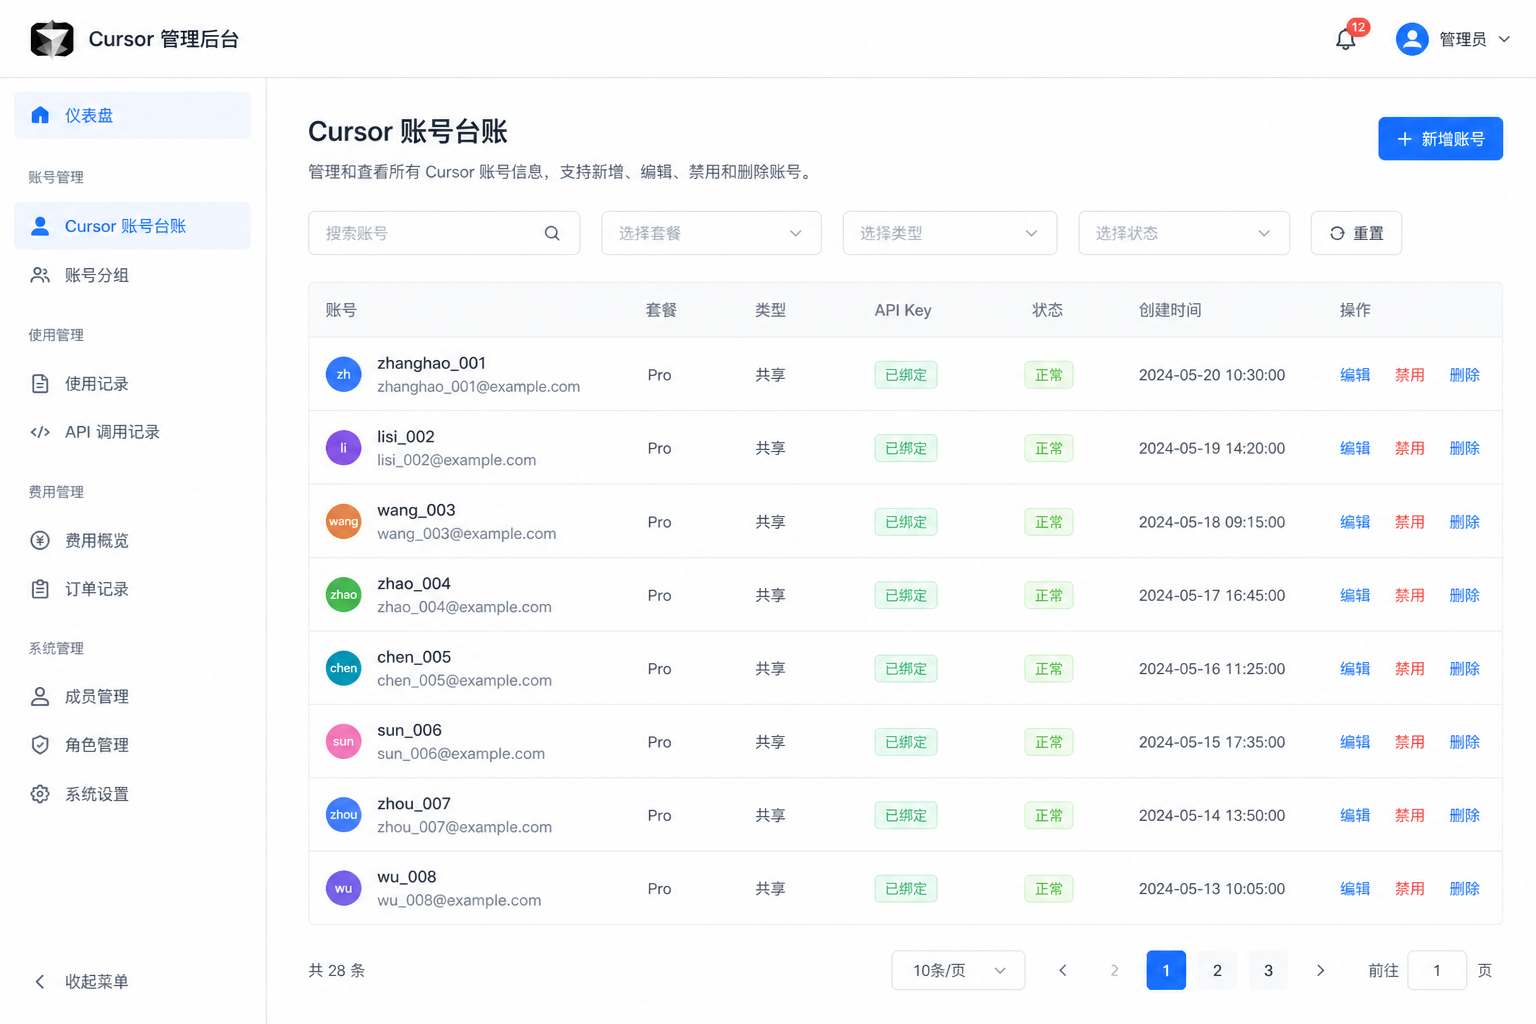
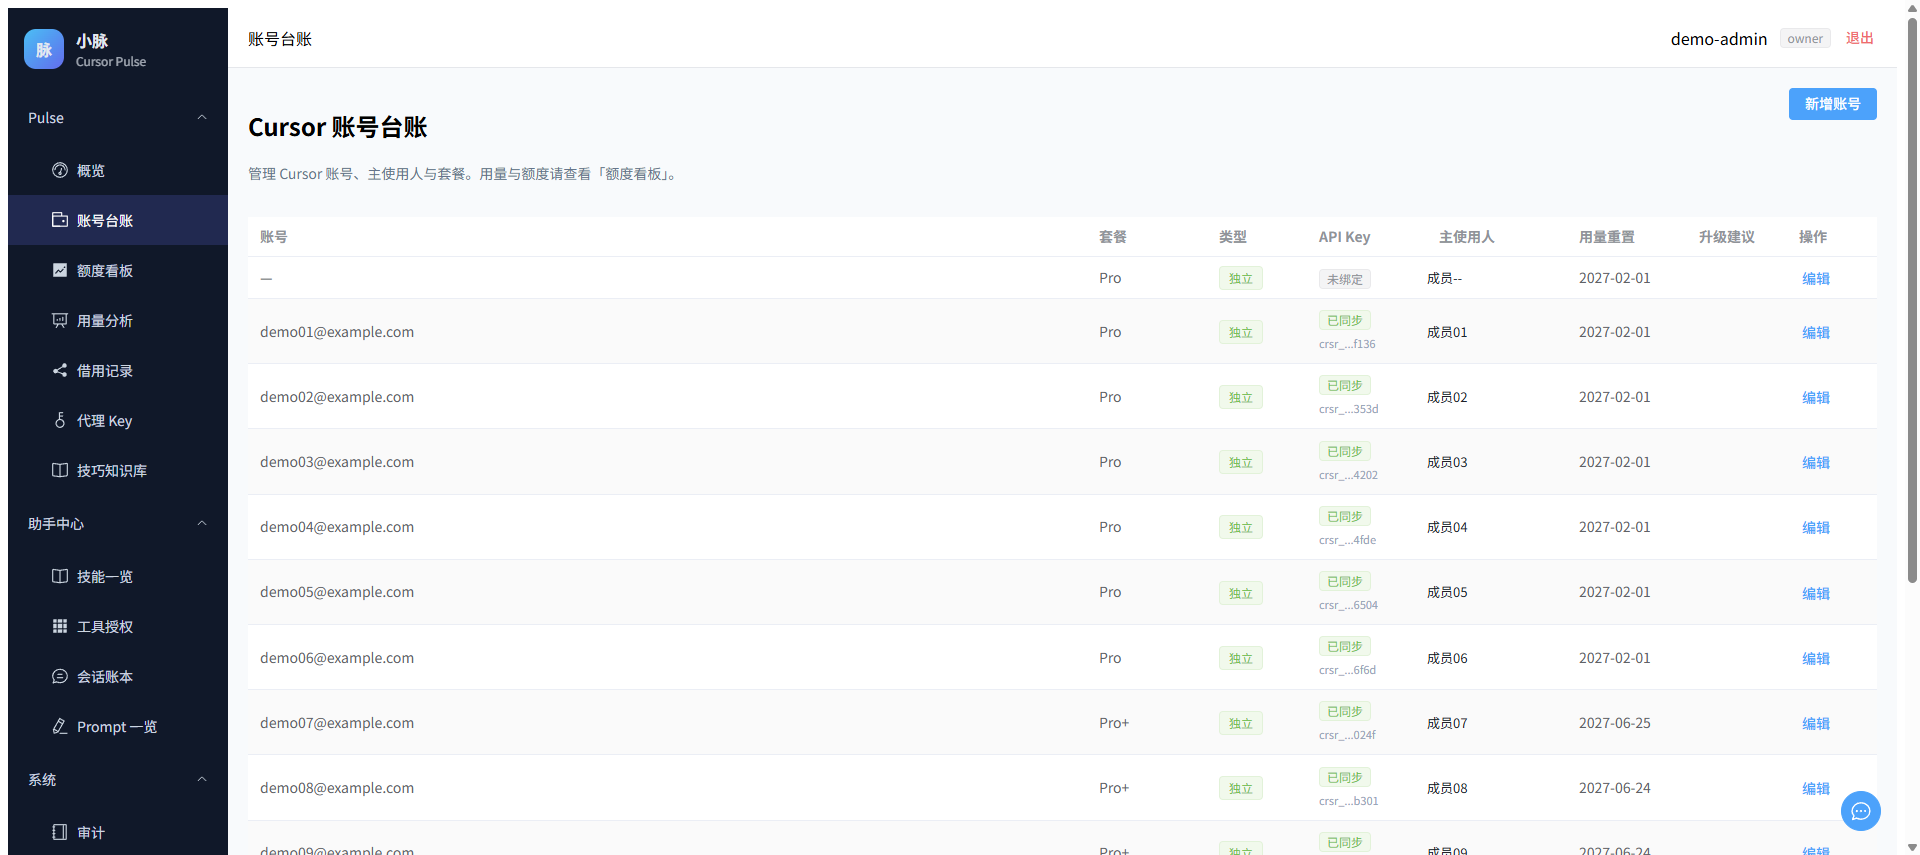
Replace mocked README visuals with real anonymized UI screenshots and rebuilt demo.gif.

diff --git a/docs/assets/readme/README.md b/docs/assets/readme/README.md
@@ -4,23 +4,18 @@ Marketing visuals for the root README (English) and README_CN (中文).
 
 | File | Purpose |
 |------|---------|
-| `demo.gif` | ~20s walkthrough: login → quota board → accounts → key loan |
-| `login.png` | Login frame (used in GIF) |
-| `quota-board.png` | Quota dashboard |
-| `accounts-bind-key.png` | Account registry & key binding |
-| `key-loan.png` | Key lending |
+| `demo.gif` | ~9s walkthrough of the real admin UI: quota board → account registry → key loans |
+| `quota-board.png` | Quota dashboard (real UI) |
+| `accounts-bind-key.png` | Account registry & key binding (real UI) |
+| `key-loan.png` | Key lending records (real UI) |
 
-These are **UI previews** for documentation. Replace with screen recordings / screenshots from a real deployment when available.
+These are **real screenshots** from a live deployment, anonymized before capture
+(demo emails / member names / admin handle). Re-capture from a healthy demo
+instance when the UI changes — never publish raw screenshots containing real
+account emails or member names.
 
-To re-build `demo.gif` after updating PNGs:
+To re-build `demo.gif` after updating the PNGs (managed-Python, no ffmpeg needed):
 
 ```bash
-cd docs/assets/readme
-ffmpeg -y -hide_banner -loglevel error \
-  -loop 1 -t 5 -i login.png \
-  -loop 1 -t 5 -i quota-board.png \
-  -loop 1 -t 5 -i accounts-bind-key.png \
-  -loop 1 -t 5 -i key-loan.png \
-  -filter_complex "[0:v]scale=960:-2:flags=lanczos[v0];[1:v]scale=960:-2:flags=lanczos[v1];[2:v]scale=960:-2:flags=lanczos[v2];[3:v]scale=960:-2:flags=lanczos[v3];[v0][v1]xfade=transition=fade:duration=0.5:offset=4.5[v01];[v01][v2]xfade=transition=fade:duration=0.5:offset=9.0[v012];[v012][v3]xfade=transition=fade:duration=0.5:offset=13.5,format=rgb24,fps=8,split[s0][s1];[s0]palettegen=max_colors=128:stats_mode=diff[p];[s1][p]paletteuse=dither=bayer:bayer_scale=3" \
-  demo.gif
+python .dev/rebuild-readme-assets.py   # regenerate PNGs into this dir + demo.gif with crossfades
 ```
